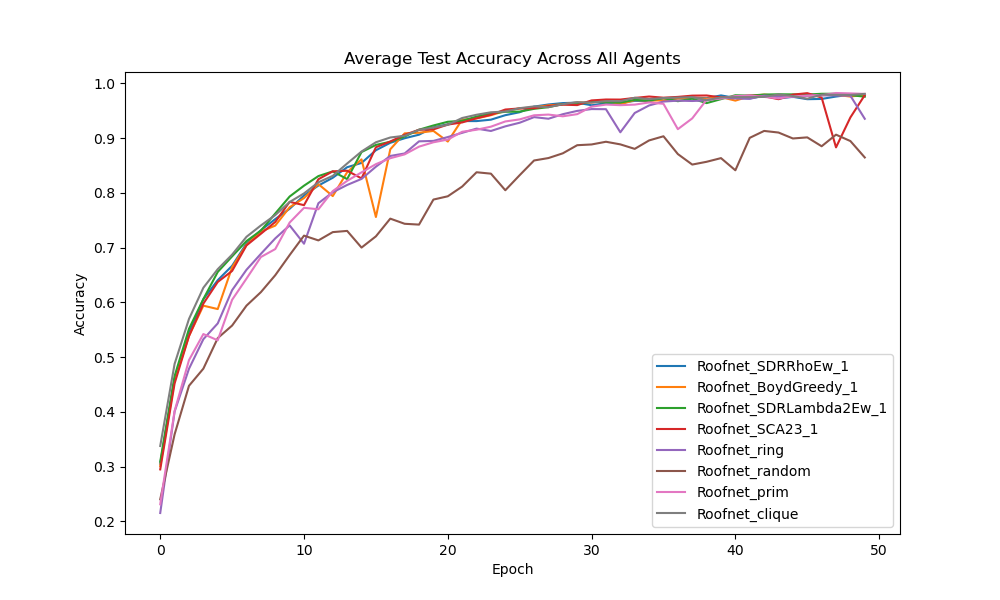
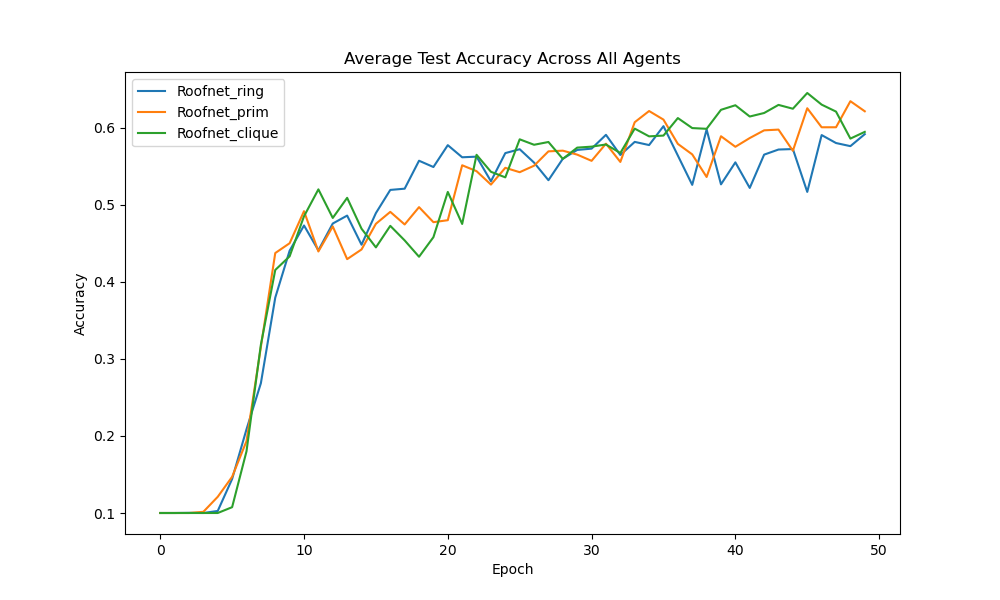
tmp

diff --git a/readpk.py b/readpk.py
@@ -5,14 +5,14 @@ import numpy as np
 
 # Define the file paths
 file_paths = [
-    '/scratch2/tingyang/DFS_Topo/saved_training_data/result_for_resnet_Roofnet_SDRRhoEw_1.pkl',
-    '/scratch2/tingyang/DFS_Topo/saved_training_data/result_for_resnet_Roofnet_BoydGreedy_1.pkl',
-    "/scratch2/tingyang/DFS_Topo/saved_training_data/result_for_resnet_Roofnet_SDRLambda2Ew_1.pkl",
-    "/scratch2/tingyang/DFS_Topo/saved_training_data/result_for_resnet_Roofnet_SCA23_1.pkl",
-    '/scratch2/tingyang/DFS_Topo/saved_training_data/result_for_resnet_Roofnet_ring.pkl',
-    '/scratch2/tingyang/DFS_Topo/saved_training_data/result_for_resnet_Roofnet_random.pkl',
-    '/scratch2/tingyang/DFS_Topo/saved_training_data/result_for_resnet_Roofnet_prim.pkl',
-    '/scratch2/tingyang/DFS_Topo/saved_training_data/result_for_resnet_Roofnet_clique.pkl'
+    # '/scratch2/tingyang/DFS_Topo/saved_training_data/result_for_resnet_Roofnet_SDRRhoEw_1.pkl',
+    # '/scratch2/tingyang/DFS_Topo/saved_training_data/result_for_resnet_Roofnet_BoydGreedy_1.pkl',
+    # "/scratch2/tingyang/DFS_Topo/saved_training_data/result_for_resnet_Roofnet_SDRLambda2Ew_1.pkl",
+    # "/scratch2/tingyang/DFS_Topo/saved_training_data/result_for_resnet_Roofnet_SCA23_1.pkl",
+    '/scratch2/tingyang/DFS_Topo/result_for_resnet_Roofnet_ring.pkl',
+    # '/scratch2/tingyang/DFS_Topo/result_for_resnet_Roofnet_random.pkl',
+    '/scratch2/tingyang/DFS_Topo/result_for_resnet_Roofnet_prim.pkl',
+    '/scratch2/tingyang/DFS_Topo/result_for_resnet_Roofnet_clique.pkl'
 ]
 
 def read_metrics(file_path):
@@ -97,5 +97,5 @@ for file_path in file_paths:
 # print(all_avg_test_accuracy)
 plot_metrics(all_avg_train_loss, 'Average Training Loss Across All Agents', 'Loss')
 plot_metrics(all_avg_test_accuracy, 'Average Test Accuracy Across All Agents', 'Accuracy')
-plot_metrics_time(all_avg_train_loss, 'Average Training Loss Across All Agents Over Time', 'Loss', time_per_epoch_diction)
-plot_metrics_time(all_avg_test_accuracy, 'Average Test Accuracy Across All Agents Over Time', 'Accuracy', time_per_epoch_diction)
+# plot_metrics_time(all_avg_train_loss, 'Average Training Loss Across All Agents Over Time', 'Loss', time_per_epoch_diction)
+# plot_metrics_time(all_avg_test_accuracy, 'Average Test Accuracy Across All Agents Over Time', 'Accuracy', time_per_epoch_diction)
